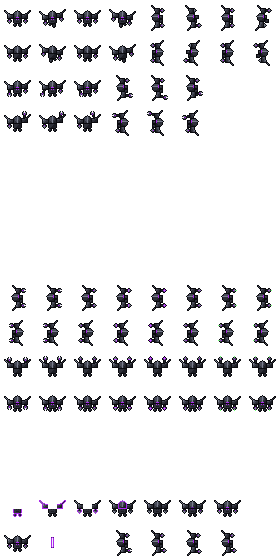
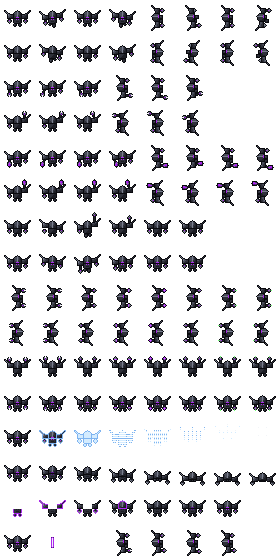
Mecha top-down test: fighting fire, punching, teleport and death; the sheet is complete
Claude-Session: https://claude.ai/code/session_01TQ4qhujdUDh59Vp7VzLUu7

diff --git a/docs/art/mecha/crew-topdown-test/tools/mech.py b/docs/art/mecha/crew-topdown-test/tools/mech.py
@@ -25,6 +25,7 @@ PALETTE = {                      # the Mecha crew palette, docs/art/palette.md
     "S": "#F0CDB8", "T": "#C99A8C",      # skin, skin shade
     "L": "#C77DFF",                      # implant light; also the bright purple of a power pulse
     "P": "#9370BF", "Q": "#7DB792",      # a pulse turning from purple to power green (docs/art/palette.md)
+    "t": "#D4ECFF", "u": "#7FB4F0", "x": "#F2F5F8",      # teleport light, as on the drifter's sheet
 }
 
 
@@ -212,13 +213,14 @@ def walk_left():
 # way. Nothing else moves. Staging after the genre's sheets: three still aims a direction, the shot a sprite of its
 # own.
 
-def reaching(lean=0, length=3):
-    """An arm reaching down the screen to an open claw; `lean` -1 or 1 steps it two pixels left or right."""
+def reaching(lean=0, length=3, end=None):
+    """An arm reaching down the screen to an open claw, or to `end`; `lean` -1 or 1 steps it two pixels left or
+    right."""
     steps = [0, 1, 1, 2][:length] + [2]
     places = [step * lean for step in steps]
     low = min(places)
     parts = [([ARM], (place - low, row)) for row, place in enumerate(places[:-1])]
-    return joined(parts + [(CLAW_OPEN, (places[-1] - low, length))]), low
+    return joined(parts + [(end or CLAW_OPEN, (places[-1] - low, length))]), low
 
 
 def aim_down(lean=0):
@@ -233,13 +235,14 @@ def aim_up(lean=0):
     return figure(True, right_plate=-1, right_arm=(arm, across - 1, -len(arm) - 6))
 
 
-def side_reaching(near, lean=0, length=3):
-    """An arm reaching right to an open claw; `lean` -1 or 1 steps it two pixels up or down the screen."""
+def side_reaching(near, lean=0, length=3, end=None):
+    """An arm reaching right to an open claw, or to `end`; `lean` -1 or 1 steps it two pixels up or down the
+    screen."""
     steps = [0, 1, 1, 2][:length] + [2]
     places = [step * lean for step in steps]
     low = min(places)
     parts = [(["o", "k", "o"], (column, 1 + place - low)) for column, place in enumerate(places[:-1])]
-    return joined(parts + [(side_claw(near, 0, True), (length, places[-1] - low))]), low
+    return joined(parts + [(end or side_claw(near, 0, True), (length, places[-1] - low))]), low
 
 
 def aim_right(lean=0, far=False):
@@ -403,6 +406,140 @@ def clone():
             built(order),
             recoloured(figure(), {"v": "q"}),
             figure()]
+
+
+# --- Fighting fire: a canister held in the clamp, swept from side to side; no spray ------------------------------
+# Staging after the genre's sheets: four frames a direction, the canister straight, a little to his right, straight,
+# a little to his left. The canister is in his race's power colour, as proposed for the drifter's (heromedel,
+# 2026-11-10): Mecha purple.
+
+CANISTER = ["onvno",             # his wrist band
+            "oeveo",             # the clamp's two prongs on the canister's neck
+            "ovvqo",
+            "ovvqo",
+            ".oko.",             # its nozzle
+            "..o.."]
+SWEEP = (0, -1, 0, 1)
+
+
+def side_canister(near):
+    prong = "e" if near else "a"
+    return [".ooooo.", "on" + prong + "vvo.", "kvvvvko", "on" + prong + "qqo.", ".ooooo."]
+
+
+def fire_down():
+    frames = []
+    for lean in SWEEP:
+        arm, across = reaching(lean, 2, CANISTER)
+        frames.append(figure(left_plate=1, left_arm=([], 0, 0), over=[(arm, moved(ARM_LEFT_AT, across, 1))]))
+    return frames
+
+
+def fire_up():
+    frames = []
+    for lean in SWEEP:
+        arm, across = reaching(-lean, 3, CANISTER)
+        arm = upside_down(arm)
+        frames.append(figure(True, right_plate=-1, right_arm=(arm, across - 1, -len(arm) - 6)))
+    return frames
+
+
+def fire_right(far=False):
+    frames = []
+    for lean in SWEEP:
+        arm, down = side_reaching(not far, -lean if far else lean, 2, side_canister(not far))
+        frames.append(side(far_plate=1, far_claw=(arm, 0, down)) if far else side(near_plate=1, near_claw=(arm, 0, down)))
+    return frames
+
+
+def fire_left():
+    return facing_left(fire_right(True))          # mirrored, the far arm is his right arm
+
+
+# --- Punching: he strikes with a closed claw ---------------------------------------------------------------------
+# Six frames, after the genre's sheets: ready, the shoulder drawn back, the strike, the arm coming back, ready,
+# ready. The whole shoulder line turns into the blow and the opposite foot steps with it, as in his walk.
+
+def punch_down():
+    drawn_back = figure(left_plate=-1, right_plate=1, left_arm=(CLAW_LEFT, -1, -1))
+    strike = figure(left_plate=2, right_plate=-1, left_arm=([ARM] * 4 + CLAW_LEFT, 1, 2),
+                    right_arm=([ARM] + CLAW_RIGHT, 1, -2), right_foot=([LEG] + FOOT_RIGHT, -1, 0))
+    coming_back = figure(left_plate=1, left_arm=([ARM, ARM] + CLAW_LEFT, 1, 1))
+    return [figure(), drawn_back, strike, coming_back, figure(), figure()]
+
+
+def punch_up():
+    # from behind his right arm is on the viewer's right, and forward is up the screen
+    def rising(length):
+        arm = upside_down([ARM] * length + CLAW_RIGHT)
+        return (arm, -1, -len(arm) - 6)
+    drawn_back = figure(True, left_plate=-1, right_plate=1, right_arm=(CLAW_RIGHT, 1, 1))
+    strike = figure(True, left_plate=1, right_plate=-2, right_arm=(rising(6)[0], -1, rising(6)[2] - 1),
+                    left_foot=([LEG] + FOOT_LEFT, 1, 0))
+    coming_back = figure(True, right_plate=-1, right_arm=rising(4))
+    return [figure(True), drawn_back, strike, coming_back, figure(True), figure(True)]
+
+
+# --- Teleporting: he turns to light, and the light thins and rises -----------------------------------------------
+# The drifter's light teleport on his shape, in the same light: it is the ship's teleporter, not his own power.
+# Eight frames; after the last he is gone.
+
+def teleport():
+    stand = figure()
+    shape = [(x, y) for y in range(FRAME) for x in range(FRAME) if stand.getpixel((x, y))[3]]
+    edge = [p for p in shape if stand.getpixel(p) == rgba("o")]
+    inside = [p for p in shape if p not in edge]
+
+    def picture(pixels):
+        image = Image.new("RGBA", (FRAME, FRAME), (0, 0, 0, 0))
+        for (x, y), code in pixels:
+            if 0 <= x < FRAME and 0 <= y < FRAME:
+                image.putpixel((x, y), rgba(code))
+        return image
+
+    lit = stand.copy()
+    for p in edge:
+        lit.putpixel(p, rgba("u"))
+    glow = picture([(p, "u") for p in edge] + [(p, "t") for p in inside])
+    bands = picture([(p, "t" if p in inside else "u") for p in shape if p[1] % 2 == 0])
+    columns = picture([((x, y - 1), "t") for (x, y) in shape if x % 2 == 0 and y % 2 == 0]
+                      + [((x, y - 2), "u") for (x, y) in shape if x % 2 == 0 and y % 4 == 0])
+    rising = picture([((x, y - 3), "t") for (x, y) in shape if x % 4 == 1 and y % 2 == 0]
+                     + [((x, y - 5), "u") for (x, y) in shape if x % 4 == 1 and y % 4 == 0])
+    sparks = picture([((x, y - 6), "t") for (x, y) in shape if x % 4 == 1 and y % 6 == 0]
+                     + [((x, y - 8), "x") for (x, y) in shape if x % 8 == 1 and y % 6 == 0])
+    last = picture([((x, y - 9), "x") for (x, y) in shape if x % 8 == 5 and y % 8 == 0])
+    return [stand, lit, glow, bands, columns, rising, sparks, last]
+
+
+# --- Dying: the lights go out and the suit comes down in a heap --------------------------------------------------
+# Eight frames. Seen from almost straight above, a thing that falls moves down the screen to the floor, where his
+# feet are. The lights dim, then go out; the shoulders sag and the claws reach the floor; the helm drops onto the
+# torso; the plates come down either side; it ends a low, dark heap with its spikes still standing out of it.
+
+def death():
+    def fallen(helm, torso, plates, arms, out=0, lights="out"):
+        """Each part by how many rows it has come down; the claws also slide `out` to the sides."""
+        parts = [(TORSO, moved(TORSO_AT, 0, torso)),
+                 (FOOT_LEFT, FOOT_LEFT_AT), (FOOT_RIGHT, FOOT_RIGHT_AT),          # his feet stay where they stood
+                 ([ARM] + CLAW_LEFT, moved(ARM_LEFT_AT, -out, arms)),
+                 ([ARM] + CLAW_RIGHT, moved(ARM_RIGHT_AT, out, arms)),
+                 (PLATE_LEFT, moved(PLATE_LEFT_AT, 0, plates)),
+                 (PLATE_RIGHT, moved(PLATE_RIGHT_AT, 0, plates)),
+                 (HELM, moved(HELM_AT, 0, helm))]
+        if lights == "out":
+            parts = [(unlit(rows), at) for rows, at in parts]
+        image = frame(parts, AT)
+        return recoloured(image, {"v": "q"}) if lights == "dim" else image
+
+    return [figure(),
+            fallen(0, 0, 1, 1, lights="dim"),          # the lights dim and the shoulders sag
+            fallen(1, 0, 2, 2),                        # the lights go out
+            fallen(3, 1, 4, 4, 1),                     # the claws reach the floor and slide out
+            fallen(5, 2, 6, 6, 2),                     # the helm drops onto the torso
+            fallen(6, 3, 7, 7, 2),                     # the plates come down either side of it
+            fallen(6, 3, 8, 7, 2),
+            fallen(7, 3, 8, 7, 2)]                     # a low, dark heap, its spikes still standing out of it
 
 
 def portrait():

diff --git a/docs/art/mecha/crew-topdown-test/tools/build.py b/docs/art/mecha/crew-topdown-test/tools/build.py
@@ -11,14 +11,13 @@ FLOOR = (0xC4, 0xCA, 0xD2, 255)
 
 def sheet():
     """Eight frames a row and sixteen rows: the genre's layout, with a row of its own for each direction of powering
-    a console, which takes eight frames. Rows not drawn yet are left empty, so every frame is where it will stay."""
-    empty = []
+    a console, which takes eight frames."""
     rows = [m.walk_down() + m.walk_right(), m.walk_up() + m.walk_left(),
             m.aims_down() + m.aims_right(), m.aims_up() + m.aims_left(),
-            empty, empty,                                  # fighting fire
-            empty, empty,                                  # punching
+            m.fire_down() + m.fire_right(), m.fire_up() + m.fire_left(),
+            m.punch_up(), m.punch_down(),
             m.power_right(), m.power_left(), m.power_up(), m.power_down(),
-            empty, empty,                                  # teleport, death
+            m.teleport(), m.death(),
             m.clone(),                                     # the suit's own clone frames; its pilot is pilot.py
             [m.portrait(), m.laser_shot(), None] + m.repair()]
     picture = Image.new("RGBA", (8 * FRAME, len(rows) * FRAME), (0, 0, 0, 0))
@@ -134,6 +133,16 @@ if __name__ == "__main__":
     strip(crop(pilot.run_right() + pilot.run_left() + [pilot.jump()]), 10, 0, FLOOR).save(
         "review/pilot-run-right-left-jump-10x.png")
     moving("review/repair-8x.gif", [m.repair()], 8, 200)
+    moving("review/fire-8x.gif", [m.fire_down(), m.fire_right(), m.fire_up(), m.fire_left()], 8, 250)
+    moving("review/punch-8x.gif", [m.punch_down(), m.punch_up()], 8, 150)
+    moving("review/teleport-8x.gif", [m.teleport() + [Image.new("RGBA", (FRAME, FRAME))] * 3], 8, 120)
+    moving("review/death-8x.gif", [m.death() + m.death()[-1:] * 5], 8, 150)
+    strip(m.fire_down() + m.fire_up(), 8, 0, FLOOR).save("review/fire-down-up-8x.png")
+    strip(m.fire_right() + m.fire_left(), 8, 0, FLOOR).save("review/fire-right-left-8x.png")
+    strip(m.punch_down(), 8, 0, FLOOR).save("review/punch-down-8x.png")
+    strip(m.punch_up(), 8, 0, FLOOR).save("review/punch-up-8x.png")
+    strip(m.teleport(), 8, 0, FLOOR).save("review/teleport-8x.png")
+    strip(m.death(), 8, 0, FLOOR).save("review/death-8x.png")
     strip(m.power_down(), 8, 0, FLOOR).save("review/powering-down-8x.png")
     strip(m.power_up(), 8, 0, FLOOR).save("review/powering-up-8x.png")
     strip(m.power_right(), 8, 0, FLOOR).save("review/powering-right-8x.png")

diff --git a/docs/art/mecha/crew-topdown-test/README.md b/docs/art/mecha/crew-topdown-test/README.md
@@ -11,8 +11,7 @@ A HalfMech in its suit at the drifter's frame size (35 by 35). He is larger than
 his spikes against 17, and that is intended: a suit is supposed to be larger than a Terran (heromedel, 2026-11-11).
 
 - `mecha-topdown-sheet.png` (and `-4x`), eight frames a row and sixteen rows: the genre's layout, with a row of its
-  own for each direction of powering a console. Rows not drawn yet are left empty, so every frame is already where
-  it will stay:
+  own for each direction of powering a console. Every row is drawn:
 
   | Row | Frames |
   |---|---|
@@ -20,10 +19,13 @@ his spikes against 17, and that is intended: a suit is supposed to be larger tha
   | 2 | Walk up (4), walk left (4) |
   | 3 | Aim down (3), aim right (3) |
   | 4 | Aim up (3), aim left (3) |
-  | 5, 6 | Fighting fire: to come |
-  | 7, 8 | Punching up and down: to come |
+  | 5 | Fighting fire down (4) and right (4) |
+  | 6 | Fighting fire up (4) and left (4) |
+  | 7 | Punching up (6) |
+  | 8 | Punching down (6) |
   | 9, 10, 11, 12 | Powering a console: right, left, up, down (8 each) |
-  | 13, 14 | Teleport and death: to come |
+  | 13 | Teleport (8) |
+  | 14 | Death (8) |
   | 15 | The clone bay: the suit's own frames (7) |
   | 16 | Portrait, crew laser shot, a gap, repair (4) |
 
@@ -35,7 +37,9 @@ his spikes against 17, and that is intended: a suit is supposed to be larger tha
   clamp-on once and the pulse three times. `review/clone-bay-8x.gif` and `-slow-8x.gif`: the clone bay as the game
   would play it, the pilot running to her suit and jumping in. `review/clone-suit-8x.png`: the suit's seven clone
   frames. `review/pilot-run-10x.gif`, `review/pilot-run-down-up-10x.png` and
-  `review/pilot-run-right-left-jump-10x.png`: the pilot's own frames. `review/repair-8x.gif`: the repair. `review/aims-down-up-8x.png` and `review/aims-right-left-8x.png`: the aim frames laid out.
+  `review/pilot-run-right-left-jump-10x.png`: the pilot's own frames. `review/repair-8x.gif`: the repair. `review/fire-8x.gif`, `review/punch-8x.gif`,
+  `review/teleport-8x.gif` and `review/death-8x.gif`: those rows moving, each with its frames laid out in a
+  picture of the same name. `review/aims-down-up-8x.png` and `review/aims-right-left-8x.png`: the aim frames laid out.
   `review/views-10x.png`: the four standing views. `review/beside-the-drifter.png`: both figures at game size, twice
   and four times. `review/beside-heromedels-drawing.png`: the front view beside the drawing it follows.
 - `reference/heromedel-mecha-topdown.png` (and `-8x`): heromedel's own drawing of the suit from above, standing and
@@ -101,6 +105,38 @@ little to his right and a little to his left, with no flash, and the shot a spri
   pixels over on the way. Nothing else moves.
 - Facing away, the claw rises from under the far edge of his shoulder plate, between the helm and the spike.
 - Facing left is the mirror of facing right with the other arm aiming, so it is still his right arm.
+
+## Fighting fire
+
+Staging after the genre's sheets: four frames a direction, a canister swept from side to side (straight, a little to
+his right, straight, a little to his left), with no spray.
+
+- **Ai-Generated-Proposal (2026-11-11):** he holds the canister in his right clamp, the two prongs on its neck. It is
+  Mecha purple, following the idea proposed for the drifter's that an extinguisher takes the power colour of the race
+  using it (heromedel, 2026-11-10).
+- The pose is the aim's: the shoulder of that arm forward, the arm reaching. Facing left it is still his right arm.
+
+## Punching
+
+Six frames, after the genre's sheets: ready, the shoulder drawn back with the claw tucked under it, the strike with
+the arm at full reach, the arm coming back, ready, ready. He strikes with a closed claw. The whole shoulder line
+turns into the blow and the opposite foot steps with it, as in his walk. The genre has only the two directions,
+toward the camera and away.
+
+## Teleport
+
+**Ai-Generated-Proposal (2026-11-11):** the drifter's light teleport on his shape, in the same pale blue light, on
+the reasoning that it is the ship's teleporter and not his own power. Eight frames: he lights at the edge, turns all
+to light, and the light thins into bands, columns and sparks that rise. After the last he is gone.
+
+## Death
+
+**Ai-Generated-Proposal (2026-11-11):** the lights go out and the suit comes down in a heap. Eight frames: the
+lights dim and the shoulders sag; the lights go out; the claws reach the floor and slide out to the sides; the helm
+drops onto the torso; the shoulder plates come down either side of it; it ends a low, dark heap with its spikes
+still standing out of it. Seen from almost straight above, a thing that falls moves down the screen to the floor,
+where his feet are, so every part moves toward his feet and they stay where they stood. The pilot is not shown. The
+old Mecha crew sheet's death melted from the feet up.
 
 ## Powering a console
 
@@ -172,9 +208,15 @@ plans to show one; both now note this glimpse.
 
 ## What I think of it
 
-- The front and back views read as heromedel's suit at game size.
-- The side view is still the weakest. It is correct as a turn of the front view, but with the shoulder plates as long as
-  they are it reads as a bracket more than as a figure.
+- The front and back views read as heromedel's suit at game size, and they carry most of the rows.
+- The side view is still the weakest. It carries walk right and left, aim, fire and power right and left, and the
+  repair.
+- Rows I would look at first: the repair, whose movement is only a pixel or two; fighting fire up, where the
+  canister crosses the spike on two frames; and the death, which is the most invented of the rows.
+- None of it has been seen on a real deck. Near-black armour with a near-black outline may sink into a dark Mecha
+  floor.
+- The style guide's Decided look for suits still says "crest head, blade forearms". If this figure becomes the
+  Mecha, that entry needs changing; that is heromedel's call.
 
 ## Tools
 
